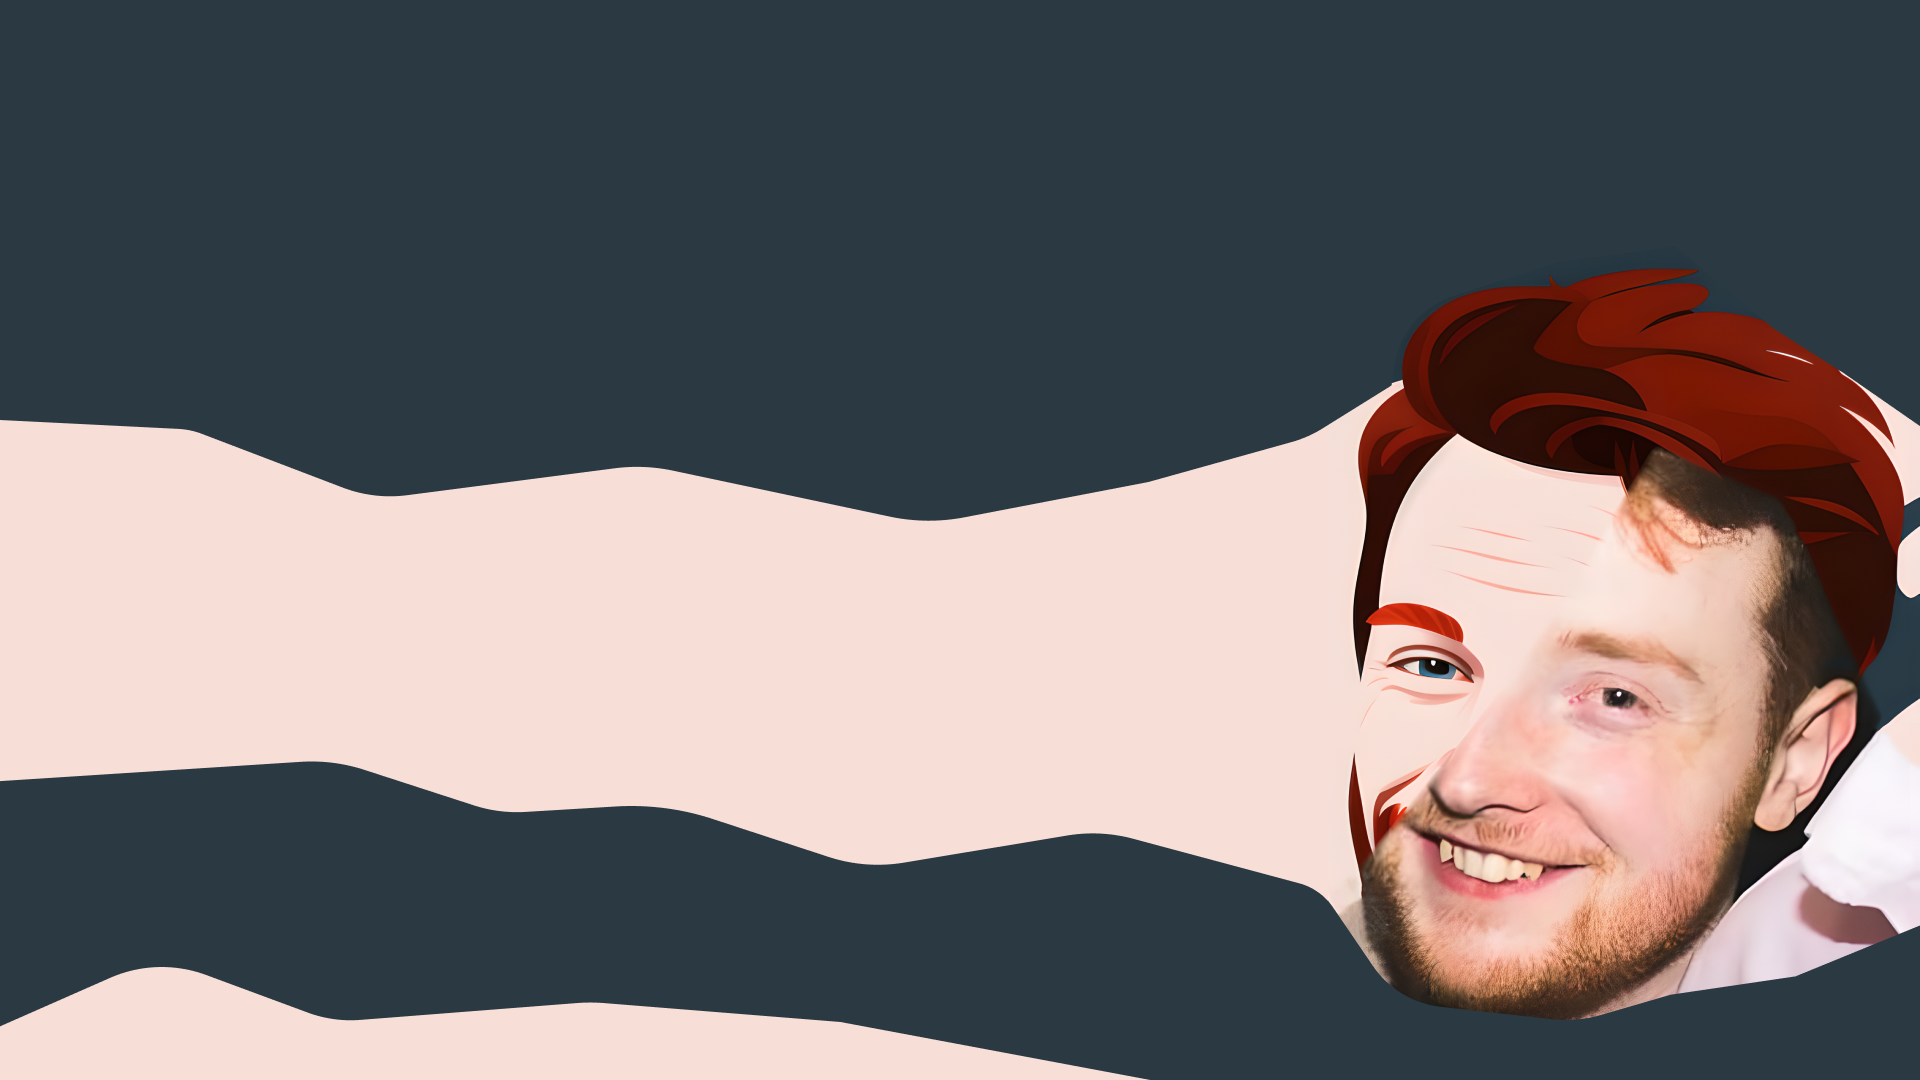
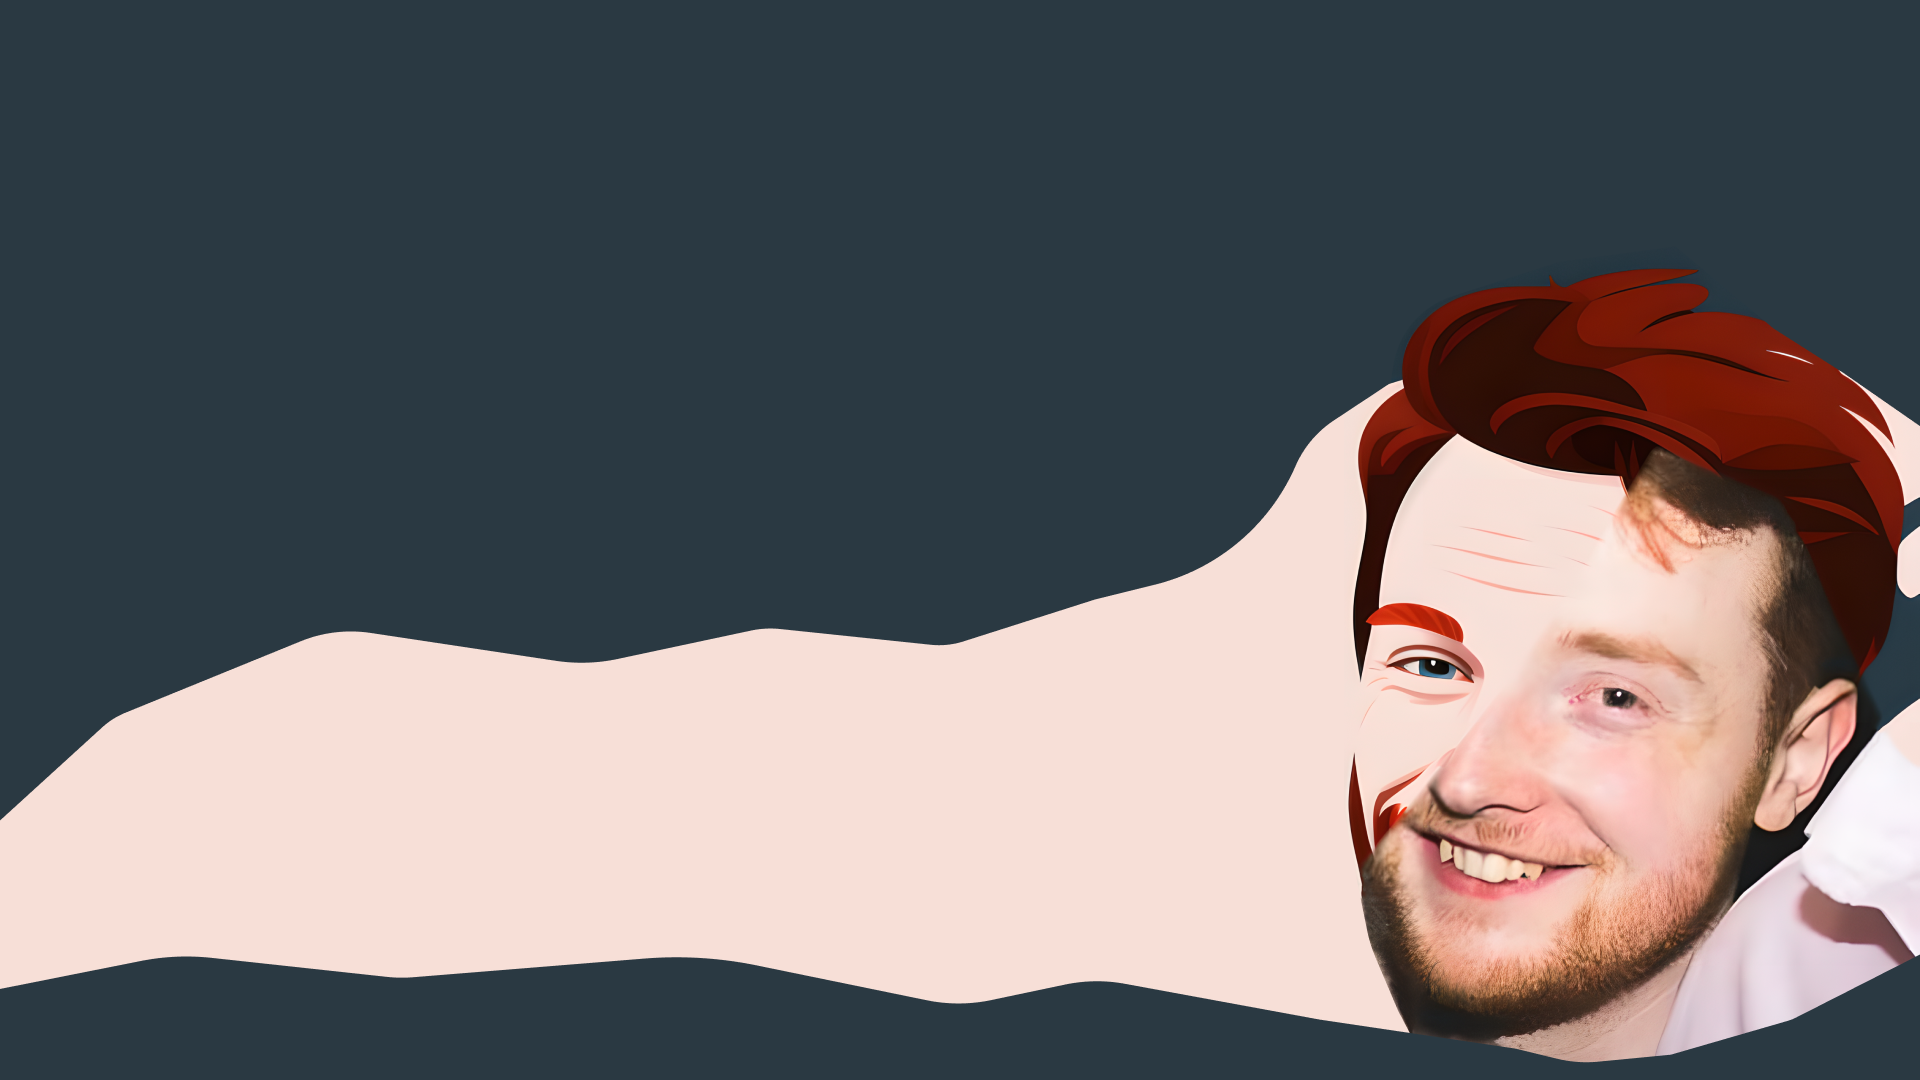
BG graphic repositioned, text shuffled

Changed region(s): [[0.0, 0.3667, 1.0, 1.0]]

diff --git a/pf/src/pages/About/index.js b/pf/src/pages/About/index.js
@@ -20,6 +20,22 @@ function About() {
               Hey!
               <br /> I'm <span className="my-name">Tristan!</span>
             </h1>
+
+            <p>
+              I'm a Junior Software Engineer based in the UK. I'm passionate
+              about creating beautiful, intuitive, and performant user
+              experiences.
+            </p>
+            <p>
+              I'm a big fan of all things Tech, and I'm always looking for new
+              things to learn. I'm currently working on a few projects, which
+              you can check out on my GitHub.
+              
+            </p>
+            <p>
+              I'm always looking for new opportunities to learn and grow. If
+              you'd like to get in touch, feel free to reach out!
+            </p>
             <div id="link-container">
             <p>
               <a
@@ -44,22 +60,6 @@ function About() {
               </a>
             </p>
             </div>
-            <p>
-              I'm a Junior Software Engineer based in the UK. I'm passionate
-              about creating beautiful, intuitive, and performant user
-              experiences.
-            </p>
-            <p>
-              I'm a big fan of all things Tech, and I'm always looking for new
-              things to learn. I'm currently working on a few projects, which
-              you can check out on my GitHub.
-              
-            </p>
-            <p>
-              I'm always looking for new opportunities to learn and grow. If
-              you'd like to get in touch, feel free to reach out!
-            </p>
-
           </div>
         </div>
       </div>

diff --git a/pf/src/pages/About/styles.css b/pf/src/pages/About/styles.css
@@ -6,20 +6,22 @@
   justify-content: flex-start;
 }
 
-  
 .about{
   display: flex;
   flex-direction: column;
   align-items: center;
   justify-content: center;
   background-image: url("../../assets/images/aboutBG.png");
-  background-size: cover;
-  background-position: right;
+  background-size: fit;
   background-repeat: no-repeat;
 }  
 
 .about-container {
-  height: 100vh;
+  height: 92.8vh;
+  display: flex;
+  flex-direction: column;
+  align-items: left;
+
 }
 
 #link-container{
